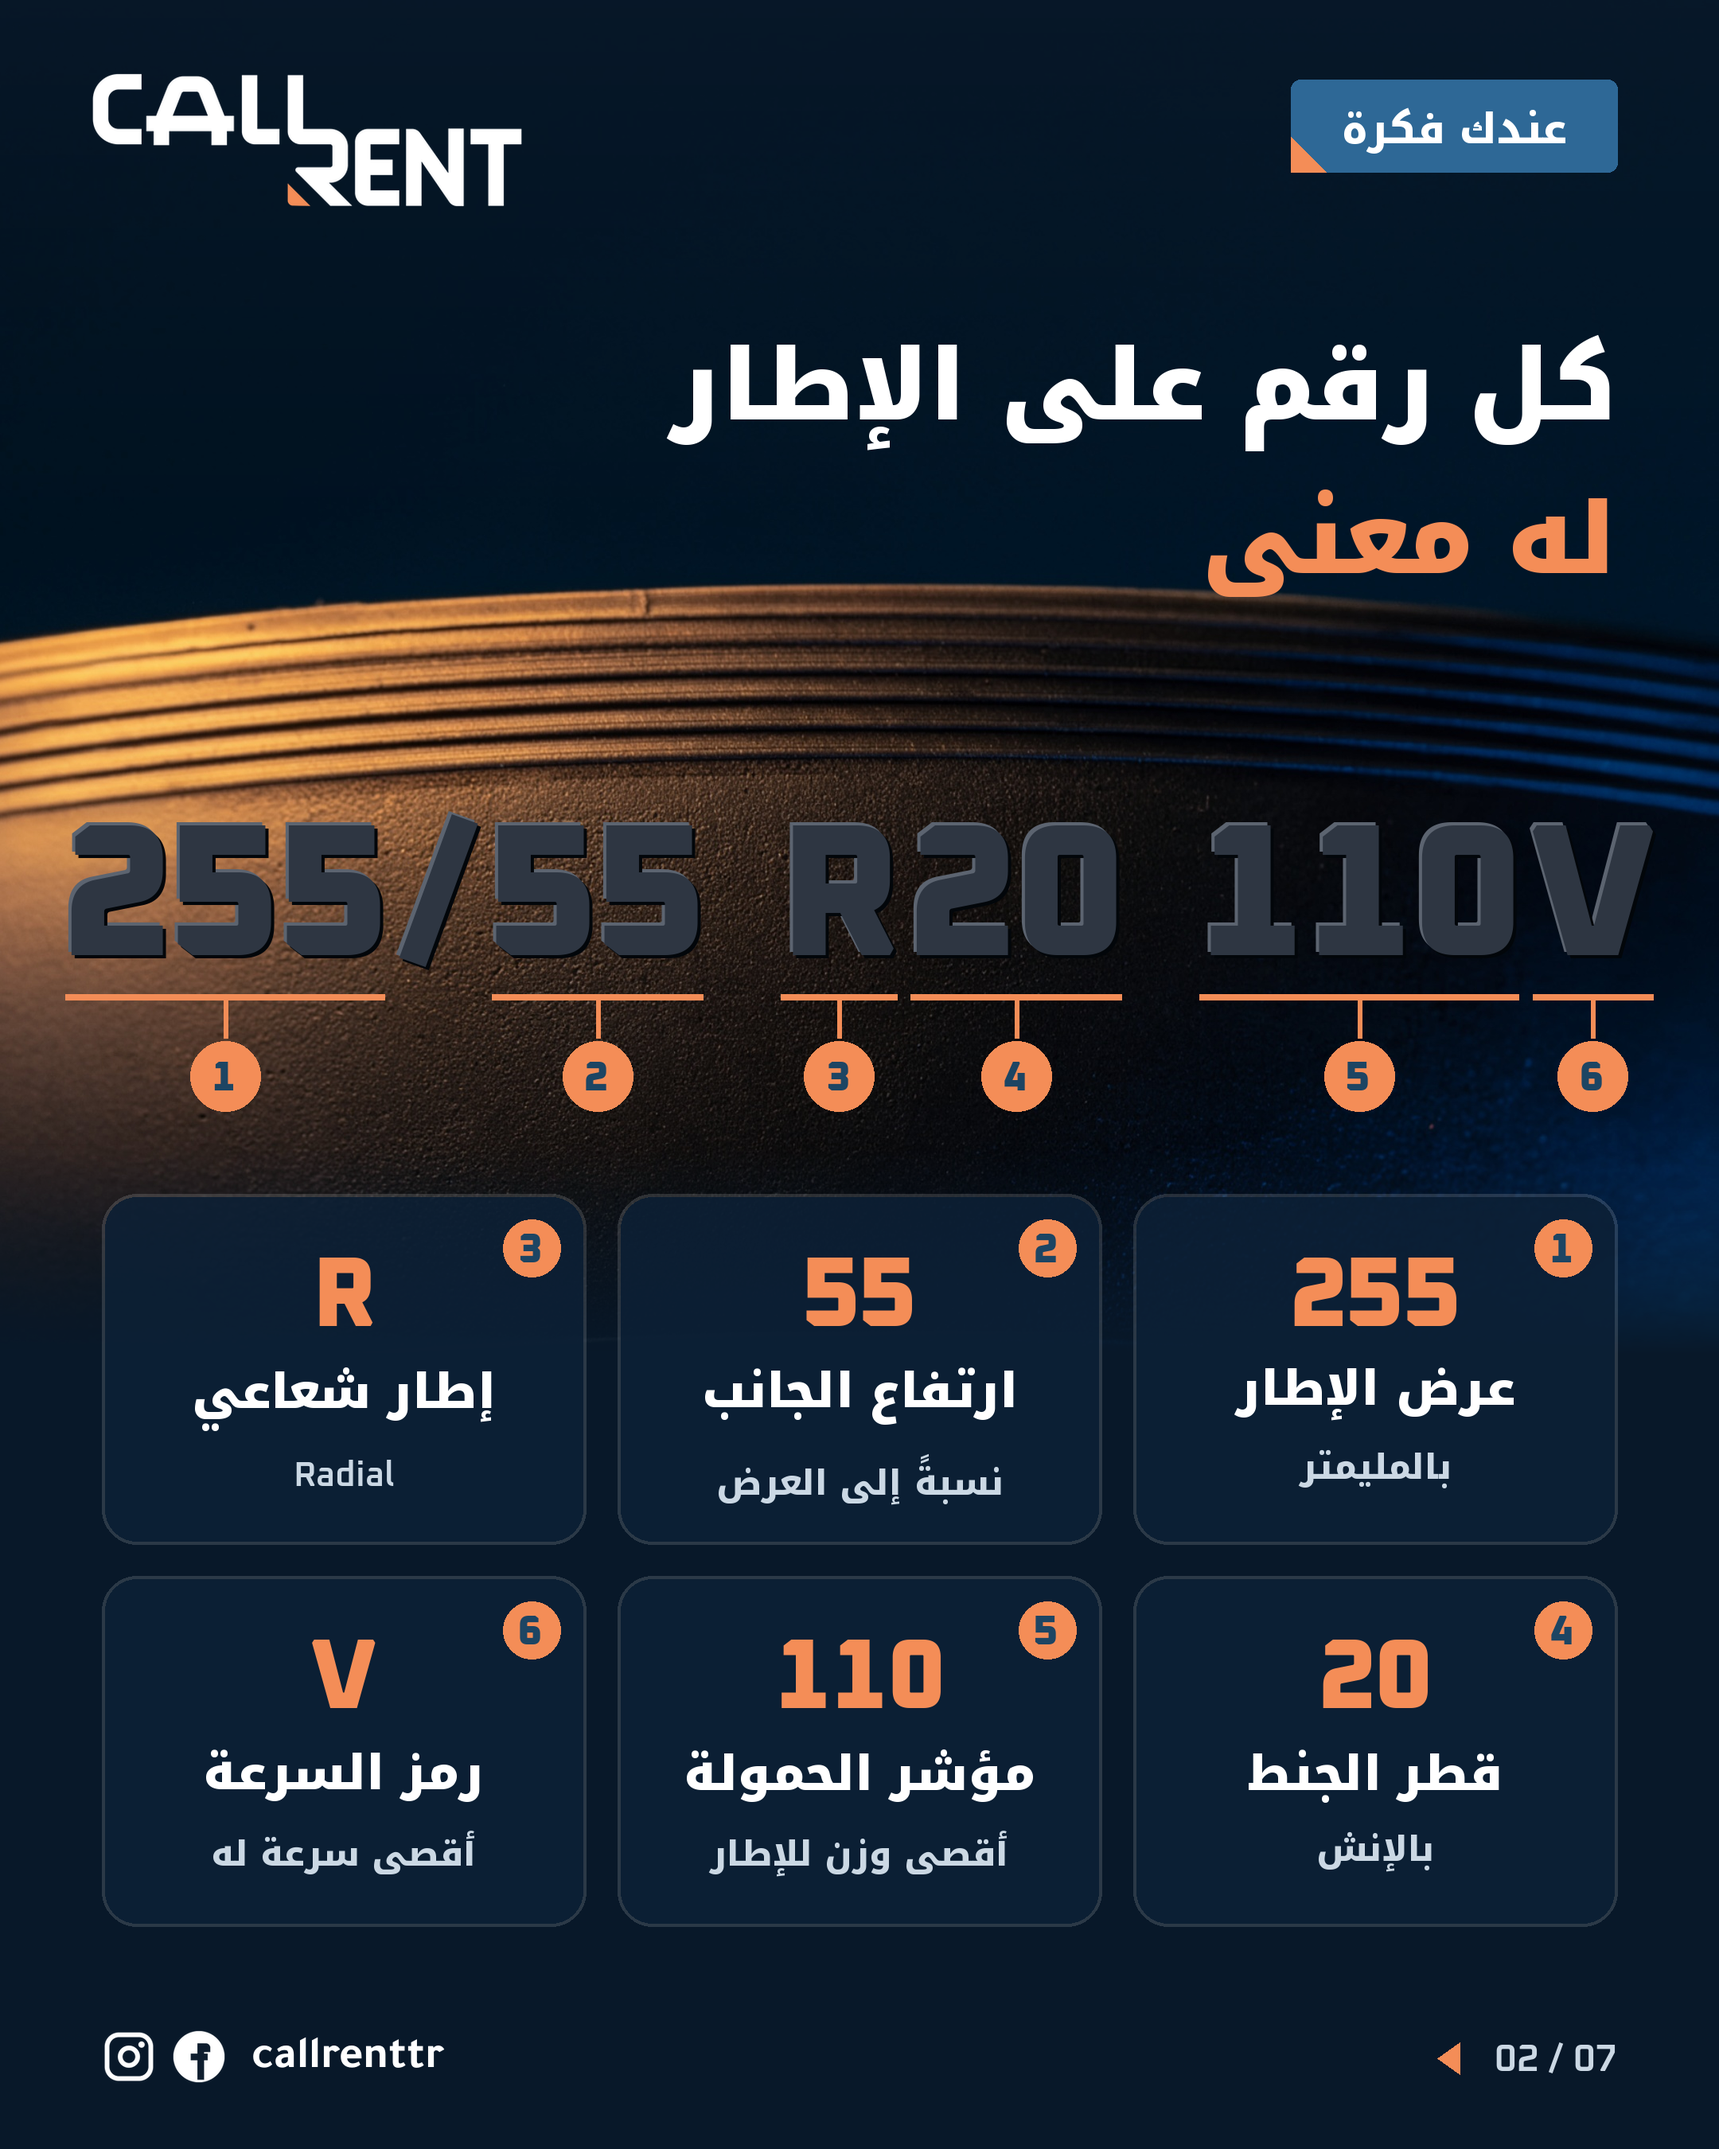
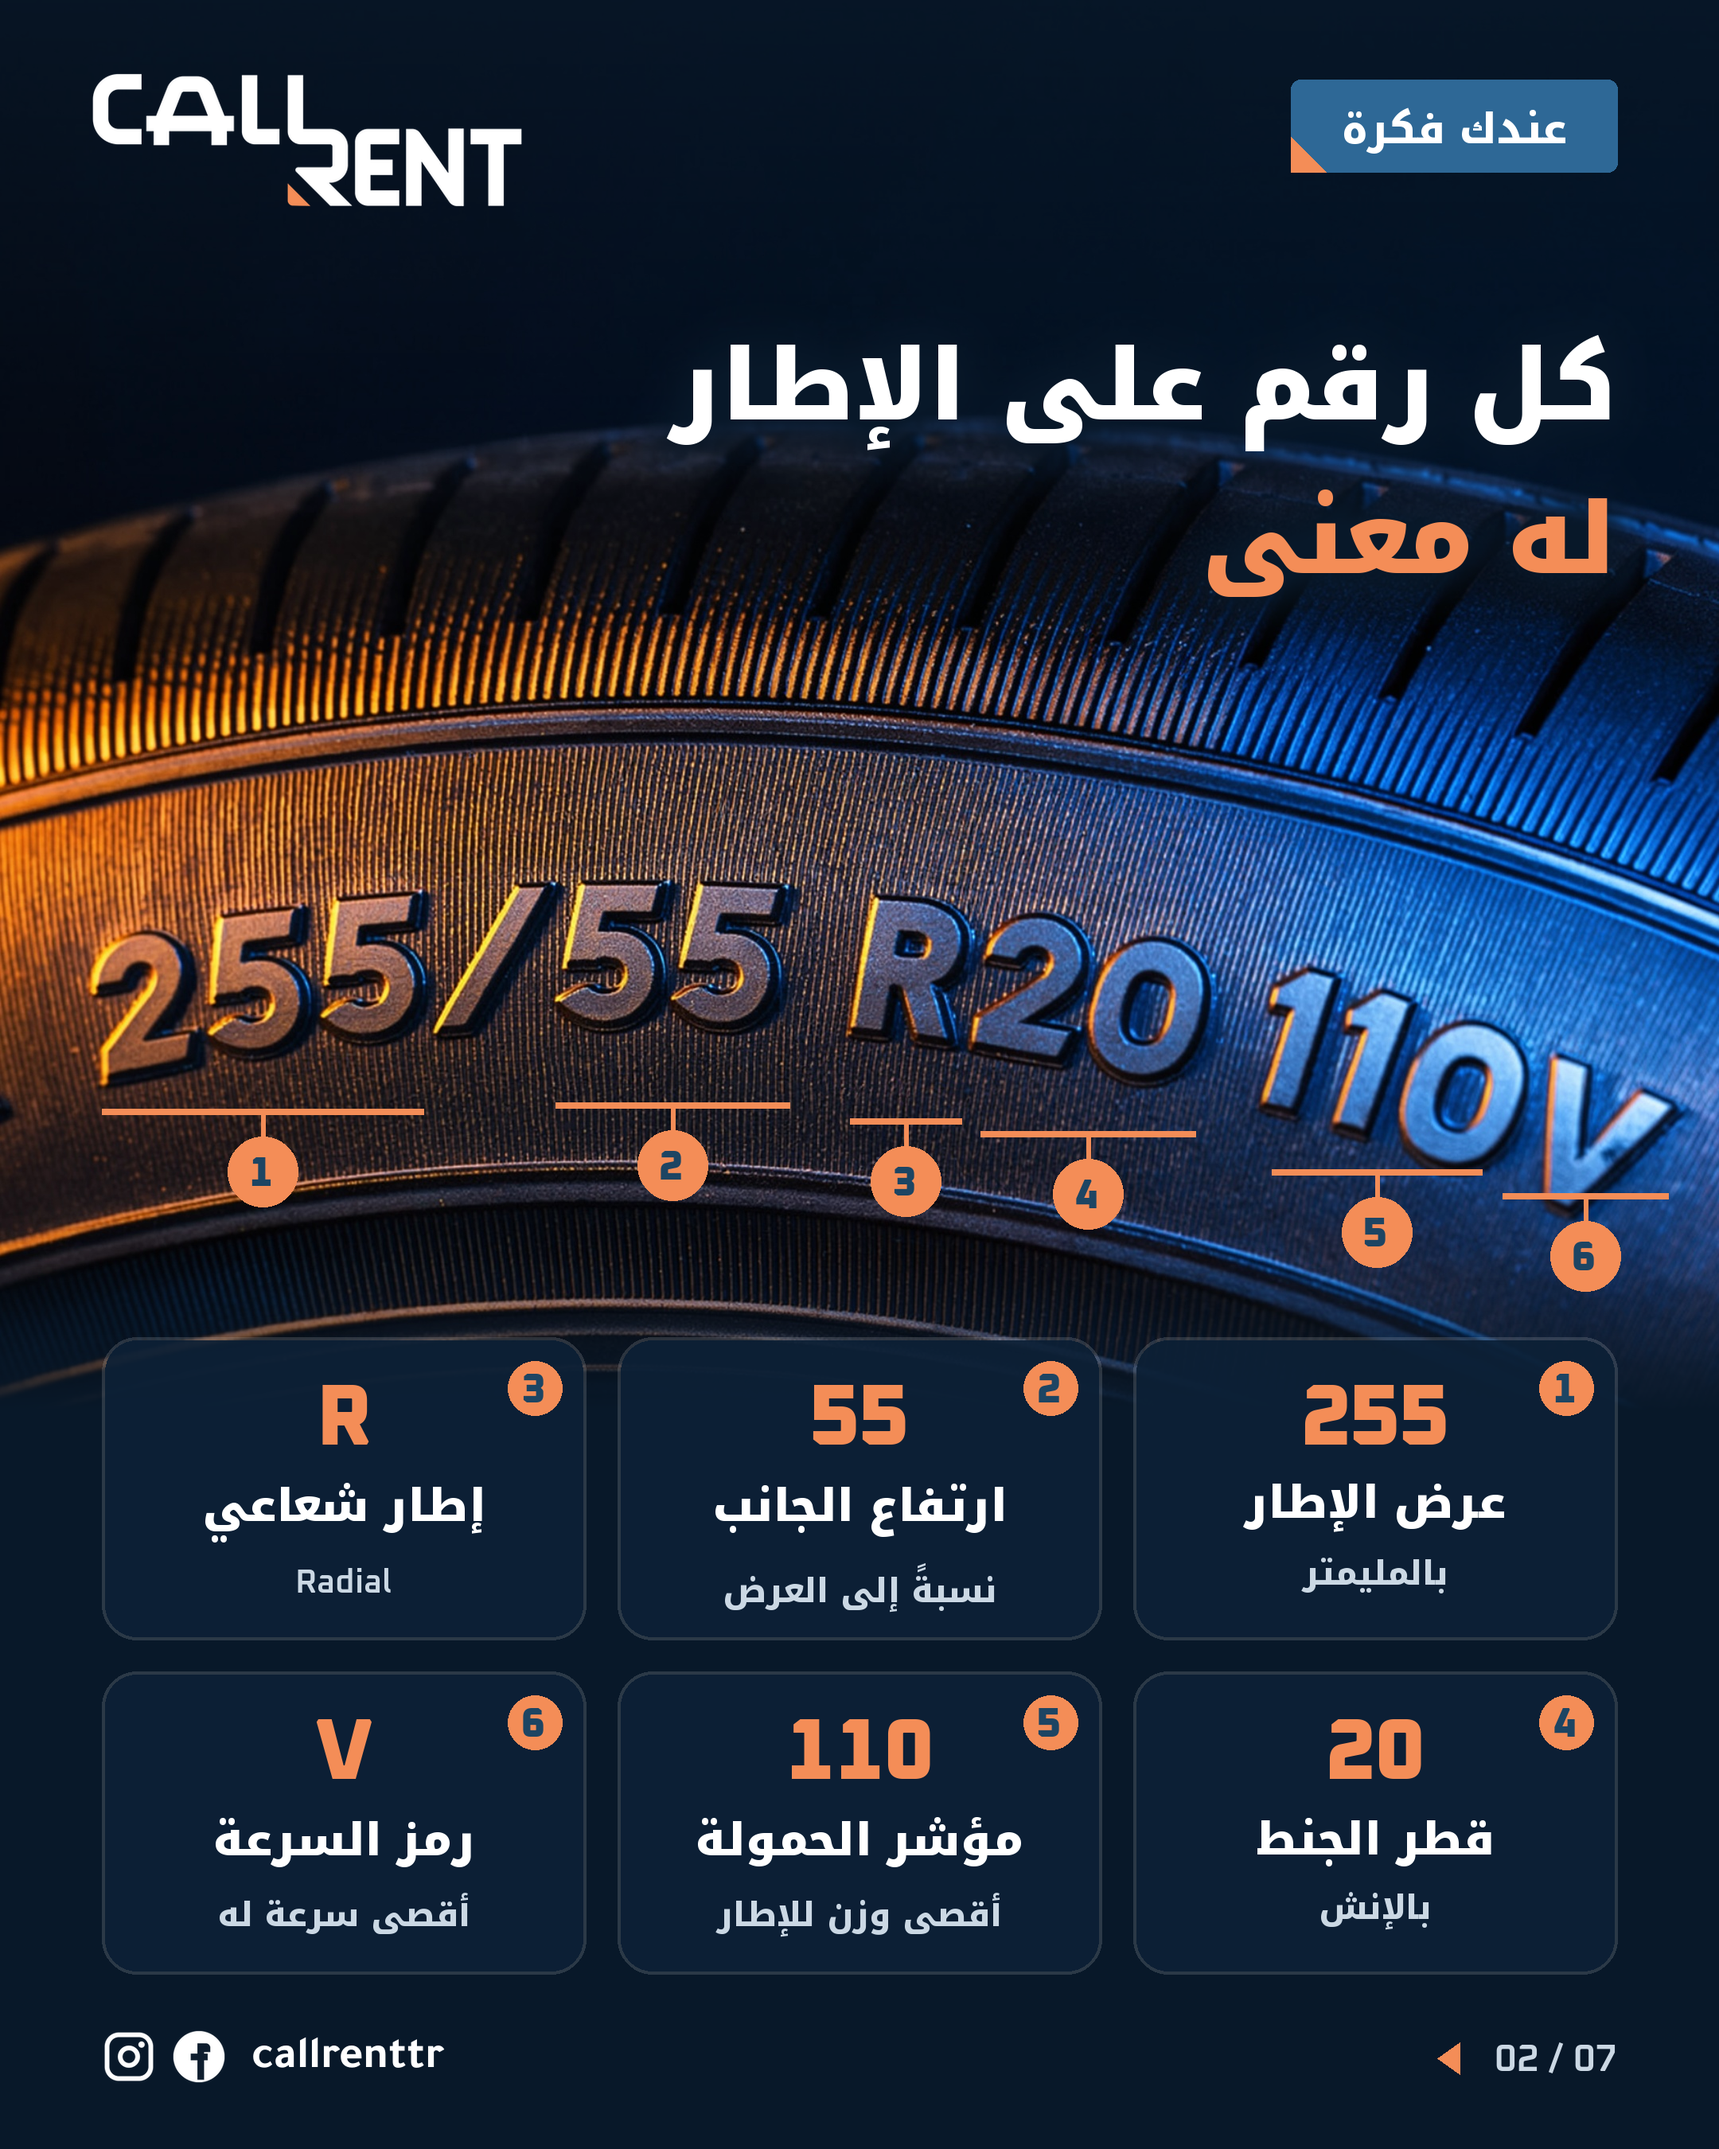
Tyre code carousel: code moulded on the cover tyre with a zoom inset; slide 2 built on a real sidewall close-up (Canva) with markers under each part
Claude-Session: https://claude.ai/code/session_01JWxxZZBXcuDznNNTjM86b7

diff --git a/marketing/news/idea_tyre_code.py b/marketing/news/idea_tyre_code.py
@@ -159,56 +159,103 @@ def shifted(name, shift):
 
 
 # ---------------------------------------------------------------------------------------------------------------
+def curved_code(cv, cx, cy, rx, ry, t_mid, size, text='255/55 R20 110V'):
+    """Mould `text` into the tyre's sidewall along the ellipse (cx, cy, rx, ry), centred on angle t_mid (degrees,
+    screen coords, 90 = bottom), letter tops pointing to the hub. Returns the text's bounding box in units."""
+    f = F(OX, size).real
+    adv = [f.getlength(ch) for ch in text]; total = sum(adv)/K     # arc length the text needs (units)
+    ts = np.radians(np.linspace(0, 360, 3601)); px = cx + rx*np.cos(ts); py = cy + ry*np.sin(ts)
+    seg = np.hypot(np.diff(px), np.diff(py)); arc = np.concatenate([[0], np.cumsum(seg)])
+    i0 = int(round(t_mid*10)); s_mid = arc[i0]
+    s = s_mid + total/2                                         # text runs right-to-left in angle at the bottom (left -> right on screen)
+    lay = Image.new('RGBA', (W*K, H*K), (0, 0, 0, 0)); boxes = []
+    for ch, a in zip(text, adv):
+        sc = s - a/K/2; j = int(np.searchsorted(arc, sc)); j = min(max(j, 1), len(px) - 2)
+        x, y = px[j], py[j]; tx, ty = px[j + 1] - px[j - 1], py[j + 1] - py[j - 1]
+        ang = math.degrees(math.atan2(ty, tx)) + 180             # baseline direction (screen left -> right at the bottom)
+        g = Image.new('RGBA', (int(a*1.6) + 20, int(size*K*2)), (0, 0, 0, 0)); gd = ImageDraw.Draw(g)
+        gx, gy = g.width/2, g.height/2
+        for (ox, oy), col in (((-2, -2), (120, 118, 112, 255)), ((2, 2), (4, 4, 6, 255)), ((0, 0), (62, 62, 66, 255))):
+            gd.text((gx + ox*K, gy + oy*K), ch, font=f, fill=col, anchor='mm')
+        r = g.rotate(-ang, resample=Image.BICUBIC, expand=True)
+        lay.alpha_composite(r, (round(x*K - r.width/2), round(y*K - r.height/2))); boxes.append((x, y))
+        s -= a/K
+    cv.alpha_composite(lay.filter(ImageFilter.GaussianBlur(0.5*K)))
+    xs = [b[0] for b in boxes]; ys = [b[1] for b in boxes]
+    return (min(xs) - size*0.5, min(ys) - size*0.6, max(xs) + size*0.5, max(ys) + size*0.6)
+
+
 def cover():
-    cv = shifted('tyre-1-cover-istanbul.jpg', 330)
-    shade(cv, [(lambda y: (1 - y/620)**1.2*0.90, DEEP), (lambda y: ((y - 1110)/150)*0.92, DEEP)])
+    cv = nc.bg('tyre-1-cover-istanbul.jpg')
+    # the sidewall's own small print at the bottom is hidden under a soft rubber patch, then our code is moulded in
+    TY = dict(cx=676, cy=738, rx=207, ry=372)
+    patch = Image.new('L', (W*K, H*K), 0); pd = ImageDraw.Draw(patch)
+    pd.ellipse(((TY['cx'] - TY['rx'] - 34)*K, (TY['cy'] - TY['ry'] - 34)*K, (TY['cx'] + TY['rx'] + 34)*K, (TY['cy'] + TY['ry'] + 34)*K), fill=255)
+    pd.ellipse(((TY['cx'] - TY['rx'] + 30)*K, (TY['cy'] - TY['ry'] + 30)*K, (TY['cx'] + TY['rx'] - 30)*K, (TY['cy'] + TY['ry'] - 30)*K), fill=0)
+    pd.rectangle((0, 0, W*K, 1000*K), fill=0); pd.rectangle((800*K, 0, W*K, H*K), fill=0)
+    soft = cv.filter(ImageFilter.GaussianBlur(10*K)); cv.paste(soft, (0, 0), patch.filter(ImageFilter.GaussianBlur(6*K)))
+    box = curved_code(cv, t_mid=112, size=34, **TY)
+    shade(cv, [(lambda y: (1 - y/560)**1.3*0.80, DEEP), (lambda y: ((y - 1190)/110)*0.9, DEEP)])
     d = D(cv); nc.chrome(cv, d, 1, TOTAL); d = D(cv)
-    lines = [('ماذا تعني الأرقام', Wh, 74), ('على إطار سيارتك؟', O, 92)]
+    # headline, right-aligned over the car's dark wing so Galata Tower stays clear on the left
+    lines = [('ماذا تعني الأرقام', Wh, 68), ('على إطار سيارتك؟', O, 80)]
     y = 300; draws = []
     for t, col, size in lines:
-        f = F(AR_BLACK, size); u, dn, _ = ink(t, f); b = y + u; draws.append(((W/2, b), t, f, 'ms', col)); y = b + dn + 26
+        f = F(AR_BLACK, size); u, dn, w = ink(t, f); b = y + u; draws.append(((R_, b), t, f, 'rs', col)); y = b + dn + 26; lw = w
     y -= 26
     halo(cv, [(xy, t, f, an) for xy, t, f, an, _ in draws]); d = D(cv)
     for xy, t, f, an, col in draws: ar(d, xy, t, f, col, an)
-    # the code on a dark glass plate, low on the cobblestones
-    pw, ph = 620, 116; p0 = 1110
-    glass(cv, (W/2 - pw/2, p0, W/2 + pw/2, p0 + ph), radius=58, fill=DEEP + (225,), outline=O + (220,))
-    code_strip(cv, W/2, p0 + ph/2 + 25, 60)
-    print('cover: title 300 -', round(y), '| plate', p0, '-', p0 + ph, '| Galata spire ~', 190 + 330)
+    # zoom: a frame round the moulded code, two leader lines, and the close-up (Canva macro of the same code)
+    bx0, by0, bx1, by1 = box
+    ix0, iy0, iw = 64, 880, 420; mac = Image.open(os.path.join(HERE, 'tyre-2-code-macro.jpg')).convert('RGB')
+    crop = mac.crop((80, 1050, 2130, 1520)); ih = round(iw*crop.height/crop.width)
+    sh, sd = layer(); sd.rounded_rectangle((ix0 - 6, iy0 + 8, ix0 + iw + 6, iy0 + ih + 18), radius=22, fill=(0, 0, 0, 150))
+    cv.alpha_composite(sh.filter(ImageFilter.GaussianBlur(14*K))); d = D(cv)
+    d.line([(ix0 + iw, iy0 + 10), (bx0, by0)], fill=O + (255,), width=3)
+    d.line([(ix0 + iw, iy0 + ih - 10), (bx0, by1)], fill=O + (255,), width=3)
+    m = Image.new('L', (iw*K, ih*K), 0); ImageDraw.Draw(m).rounded_rectangle((0, 0, iw*K - 1, ih*K - 1), radius=18*K, fill=255)
+    cv.paste(crop.resize((iw*K, ih*K), Image.LANCZOS), (ix0*K, iy0*K), m); d = D(cv)
+    d.rounded_rectangle((ix0 - 4, iy0 - 4, ix0 + iw + 4, iy0 + ih + 4), radius=21, outline=O + (255,), width=4)
+    d.rounded_rectangle((bx0, by0, bx1, by1), radius=12, outline=O + (255,), width=3)
+    t = 'اقرأ هذا الرمز على إطارك'; f = F(AR_BOLD, 28); u, dn, w = ink(t, f); b = iy0 - 22 - dn
+    halo(cv, [((ix0 + iw/2, b), t, f, 'ms')], r=10); d = D(cv); ar(d, (ix0 + iw/2, b), t, f, Wh, 'ms')
+    print('cover: title 300 -', round(y), 'left edge', round(R_ - lw), '| inset', iy0, '-', iy0 + ih, '| code box', [round(v) for v in box], '| label top', round(b - u))
     return cv
 
 
 def code_map():
-    cv = nc.bg('tyre-2-sidewall.jpg')
-    shade(cv, [(lambda y: (1 - y/360)**1.3*0.85, DEEP), (lambda y: ((y - 720)/120)*0.92, DEEP)])
+    cv = nc.bg('tyre-2-code-macro.jpg')
+    shade(cv, [(lambda y: (1 - y/420)**1.3*0.80, DEEP), (lambda y: ((y - 790)/90)*0.94, DEEP)])
     d = D(cv); nc.chrome(cv, d, 2, TOTAL); d = D(cv)
-    end = stack(d, [('كل رقم على الإطار', F(AR_BLACK, 62), Wh), ('له معنى', F(AR_BLACK, 62), O)], 210, R_, 'rs')
-    # the code moulded into the rubber band, with numbered markers under each part
-    base = 600
-    pos, up = code_strip(cv, W/2, base, 118, emboss=True)
-    d = D(cv); keys = ['w', 'h', 'r', 'd', 'load', 'speed']
-    for n, k in enumerate(keys, 1):
-        x0, x1 = pos[k]; cx = (x0 + x1)/2
-        d.line([(x0 + 2, base + 26), (x1 - 2, base + 26)], fill=O + (255,), width=4)
-        d.line([(cx, base + 26), (cx, base + 52)], fill=O + (255,), width=3)
-        badge(d, cx, base + 76, n)
-    print('code_map: title 210 -', round(end), '| code ink', round(base - up), '-', base, '| badges to', base + 98)
-    # six cards: number, the part in orange, what it means
+    lines = [('كل رقم على الإطار', F(AR_BLACK, 62), Wh), ('له معنى', F(AR_BLACK, 62), O)]
+    y = 210 - 24; draws = []
+    for t, f, col in lines:
+        u, dn, _ = ink(t, f); b = y + 24 + u; draws.append(((R_, b), t, f, 'rs', col)); y = b + dn
+    halo(cv, [(xy, t, f, an) for xy, t, f, an, _ in draws], r=14); d = D(cv)
+    for xy, t, f, an, col in draws: ar(d, xy, t, f, col, an)
+    # the parts as moulded in the photo (units): x range and the ink bottom of each
+    parts = [(60, 270, 682), (345, 500, 678), (530, 608, 688), (612, 755, 696), (795, 935, 720), (940, 1052, 735)]
+    for n, (x0, x1, yb) in enumerate(parts, 1):
+        cx = (x0 + x1)/2; yl = yb + 16
+        d.line([(x0 + 4, yl), (x1 - 4, yl)], fill=O + (255,), width=4)
+        d.line([(cx, yl), (cx, yl + 16)], fill=O + (255,), width=3)
+        badge(d, cx, yl + 16 + 22, n)
+    print('code_map: title 210 -', round(y), '| badges to', 735 + 16 + 16 + 44)
     items = [('255', 'عرض الإطار', 'بالمليمتر'), ('55', 'ارتفاع الجانب', 'نسبةً إلى العرض'), ('R', 'إطار شعاعي', 'Radial'),
              ('20', 'قطر الجنط', 'بالإنش'), ('110', 'مؤشر الحمولة', 'أقصى وزن للإطار'), ('V', 'رمز السرعة', 'أقصى سرعة له')]
-    g0 = 750; gw = (R_ - M - 2*20)/3; gh = 220
+    g0 = 840; gw = (R_ - M - 2*20)/3; gh = 190
     for i, (code, name, sub) in enumerate(items):
         col, row = i % 3, i//3
         x1 = R_ - col*(gw + 20); x0 = x1 - gw; y0 = g0 + row*(gh + 20)
-        glass(cv, (x0, y0, x1, y0 + gh))
-        d = D(cv); badge(d, x1 - 34, y0 + 34, i + 1, 18)
-        fc = F(OX, 62); u, dn, w = ink(code, fc, False); b = y0 + 40 + u
+        glass(cv, (x0, y0, x1, y0 + gh), fill=CARD + (230,))
+        d = D(cv); badge(d, x1 - 32, y0 + 32, i + 1, 17)
+        fc = F(OX, 54); u, dn, w = ink(code, fc, False); b = y0 + 30 + u
         lt(d, (x0 + gw/2 - w/2, b), code, fc, O)
-        fn = F(AR_BLACK, 30); u2, d2, _ = ink(name, fn); b2 = b + dn + 26 + u2; ar(d, (x0 + gw/2, b2), name, fn, Wh, 'ms')
-        fs = F(AR_BOLD, 22) if not sub.isascii() else F(OX6, 22)
-        u3, d3, _ = ink(sub, fs, not sub.isascii()); b3 = b2 + d2 + 18 + u3
+        fn = F(AR_BLACK, 28); u2, d2, _ = ink(name, fn); b2 = b + dn + 24 + u2; ar(d, (x0 + gw/2, b2), name, fn, Wh, 'ms')
+        fs = F(AR_BOLD, 21) if not sub.isascii() else F(OX6, 21)
+        u3, d3, _ = ink(sub, fs, not sub.isascii()); b3 = b2 + d2 + 16 + u3
         (ar if not sub.isascii() else lt)(d, (x0 + gw/2, b3), sub, fs, SOFT, 'ms')
-        if i in (0, 3): print(f'  card row {row}: {y0}-{y0 + gh}, code {round(b - u)}-{round(b + dn)}, name to {round(b2 + d2)}, sub to {round(b3 + d3)}')
+        if i in (0, 3): print(f'  card row {row}: {y0}-{y0 + gh}, sub ends {round(b3 + d3)}')
     return cv
 
 
